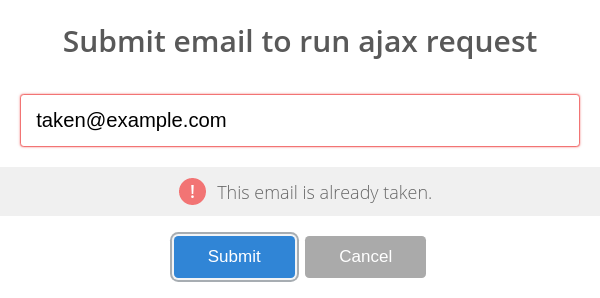
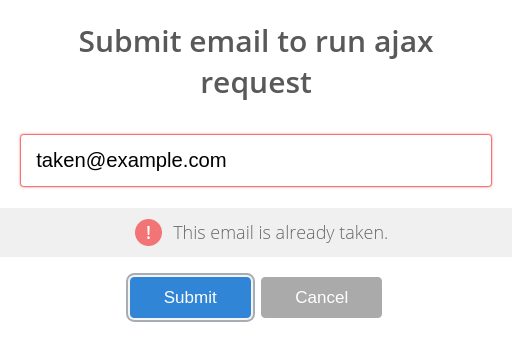
Add 0.5rem screenshots (#26)

Changed region(s): [[0.0312, 0.2114, 0.9688, 0.7248], [0.2188, 0.755, 0.75, 0.9664], [0.0938, 0.0906, 0.9062, 0.2114]]

diff --git a/visual-tests.js b/visual-tests.js
@@ -4,11 +4,12 @@ const clc = require('cli-color')
 const looksSame = require('looks-same')
 const puppeteer = require('puppeteer')
 
-const screensPath = `screens/`
+let testCasePrefix = ''
+let page
 
 let code = 0
 
-async function run (page, testCase) {
+async function run (testCase) {
   switch (testCase) {
     case 'modal-type-success':
       await page.click('.showcase.sweet button')
@@ -185,24 +186,25 @@ async function run (page, testCase) {
   await page.setViewport(swalModalSize)
 
   const screenName = `${testCase}`
+  const screensPath = `screens/${testCasePrefix}${screenName}`
   await page.screenshot({
-    path: `${screensPath}${screenName}${argv.update ? '' : '-test'}.png`
+    path: `${screensPath}${argv.update ? '' : '-test'}.png`
   })
 
   if (argv.update) {
-    console.log(clc.green('✓') + ` ${testCase}`)
+    console.log(clc.green('✓') + ` ${testCasePrefix}${testCase}`)
   } else {
     await new Promise((resolve) => {
-      looksSame(`${screensPath}${screenName}.png`, `${screensPath}${screenName}-test.png`, (error, equal) => {
+      looksSame(`${screensPath}.png`, `${screensPath}-test.png`, (error, equal) => {
         error && console.log(error)
         console.log(
-          (equal ? clc.green('✓') : clc.red('✖')) + ` ${testCase}`
+          (equal ? clc.green('✓') : clc.red('✖')) + ` ${testCasePrefix}${testCase}`
         )
         if (!equal) {
           looksSame.createDiff({
-            reference: `${screensPath}${screenName}.png`,
-            current: `${screensPath}${screenName}-test.png`,
-            diff: `${screensPath}${screenName}-diff.png`,
+            reference: `${screensPath}.png`,
+            current: `${screensPath}-test.png`,
+            diff: `${screensPath}-diff.png`,
             highlightColor: '#ff0000' // color to highlight the differences
           }, (error) => {
             error && console.log(error)
@@ -225,54 +227,67 @@ async function run (page, testCase) {
   await page.waitFor(300)
 }
 
-async function runAll () {
+async function runAllTests () {
+  await run('modal-type-success')
+  await run('modal-type-error')
+  await run('modal-type-question')
+
+  await run('long-text')
+
+  await run('input-type-text')
+  await run('input-type-email-invalid')
+  await run('input-type-email-valid')
+  await run('input-type-url-invalid')
+  await run('input-type-url-valid')
+  await run('input-type-password')
+  await run('input-type-textarea')
+  await run('input-type-select')
+  await run('input-type-select-invalid')
+  await run('input-type-select-valid')
+  await run('input-type-radio')
+  await run('input-type-radio-invalid')
+  await run('input-type-radio-valid')
+  await run('input-type-checkbox')
+  await run('input-type-checkbox-invalid')
+  await run('input-type-checkbox-valid')
+  await run('input-type-range')
+
+  await run('rtl')
+  await run('loading-state')
+
+  await run('bootstrap-buttons')
+
+  await run('ajax-request-success')
+  await run('ajax-request-reject')
+
+  await run('chaining-modals-step1')
+  await run('chaining-modals-step2')
+  await run('chaining-modals-step3')
+  await run('chaining-modals-success')
+}
+
+async function initBrowserAndRunTests () {
   const browser = await puppeteer.launch({
     // debug mode, uncomment this to see the browser
     // headless: false
   })
-  const page = await browser.newPage()
+  page = await browser.newPage()
   await page.goto('https://sweetalert2.github.io/')
 
-  await run(page, 'modal-type-success')
-  await run(page, 'modal-type-error')
-  await run(page, 'modal-type-question')
+  await runAllTests()
 
-  await run(page, 'long-text')
+  // set body font-size to 1.2rem
+  testCasePrefix = '0.5rem-'
+  const documentHandle = await page.evaluateHandle('document')
+  await page.evaluate(document => {
+    return document.documentElement.style.fontSize = '0.5rem'
+  }, documentHandle)
 
-  await run(page, 'input-type-text')
-  await run(page, 'input-type-email-invalid')
-  await run(page, 'input-type-email-valid')
-  await run(page, 'input-type-url-invalid')
-  await run(page, 'input-type-url-valid')
-  await run(page, 'input-type-password')
-  await run(page, 'input-type-textarea')
-  await run(page, 'input-type-select')
-  await run(page, 'input-type-select-invalid')
-  await run(page, 'input-type-select-valid')
-  await run(page, 'input-type-radio')
-  await run(page, 'input-type-radio-invalid')
-  await run(page, 'input-type-radio-valid')
-  await run(page, 'input-type-checkbox')
-  await run(page, 'input-type-checkbox-invalid')
-  await run(page, 'input-type-checkbox-valid')
-  await run(page, 'input-type-range')
-
-  await run(page, 'rtl')
-  await run(page, 'loading-state')
-
-  await run(page, 'bootstrap-buttons')
-
-  await run(page, 'ajax-request-success')
-  await run(page, 'ajax-request-reject')
-
-  await run(page, 'chaining-modals-step1')
-  await run(page, 'chaining-modals-step2')
-  await run(page, 'chaining-modals-step3')
-  await run(page, 'chaining-modals-success')
+  await runAllTests()
 
   await browser.close()
 }
 
-runAll().then(() => {
+initBrowserAndRunTests().then(() => {
   process.exit(code)
 })
